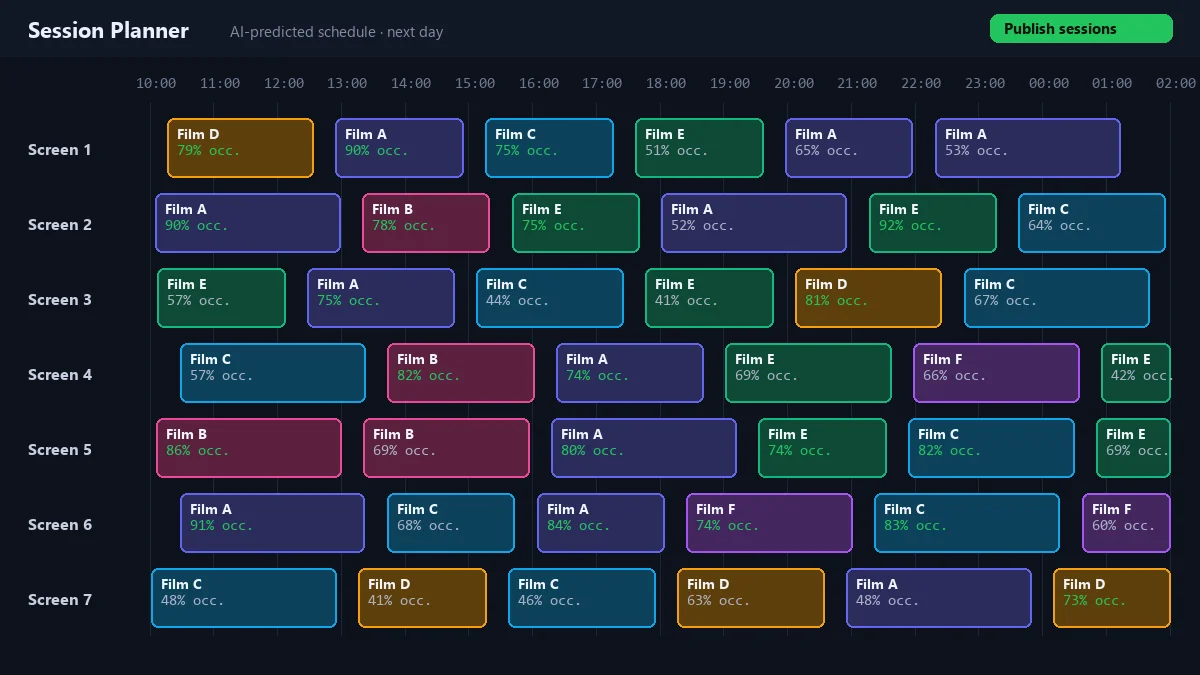
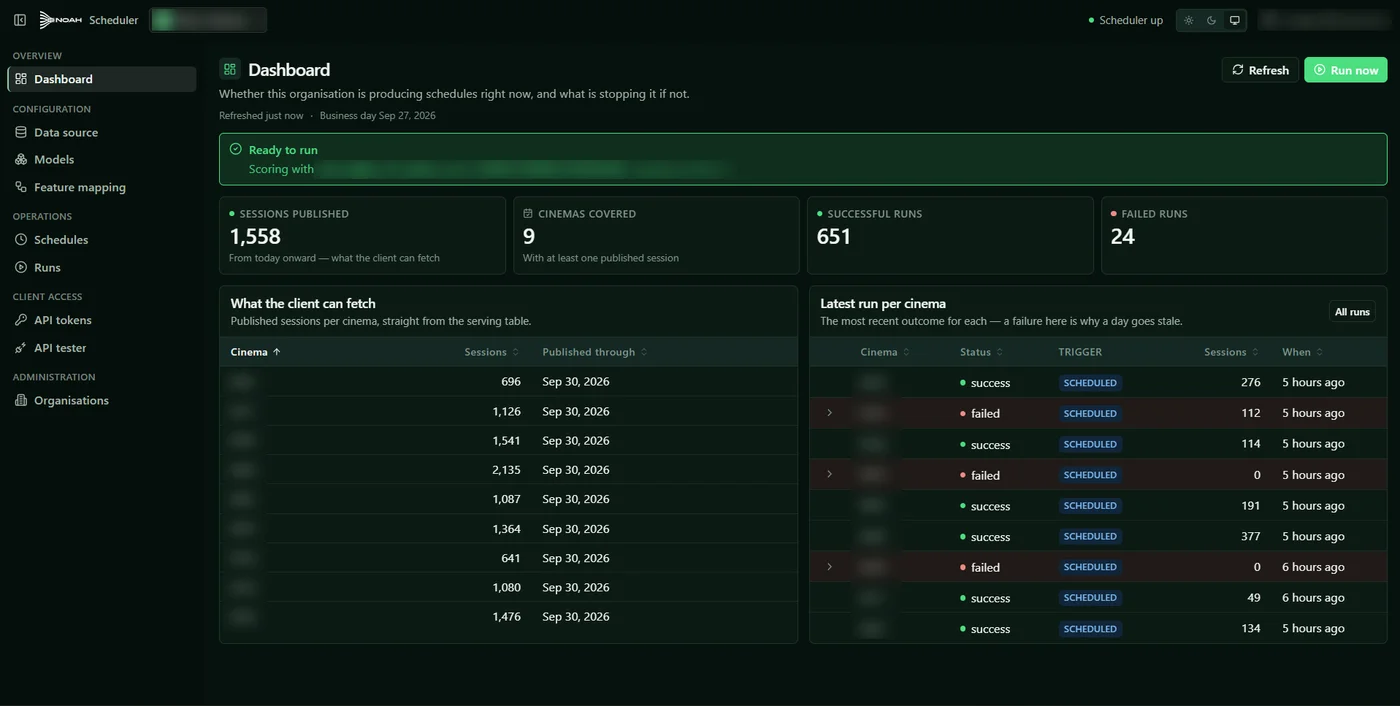
Scheduler card: real dashboard screenshot, confidential fields blurred
Client name/badge, colleague email, model and data-source names and
cinema codes blurred. Label now reflects the screenshot.

diff --git a/src/data.ts b/src/data.ts
@@ -98,14 +98,15 @@ export const projects = [
     paper: 'https://ieeexplore.ieee.org/document/11467195',
   },
   {
-    // Client work at EnPointe — private repo, so no code/live link and no client names or figures.
+    // Client work at EnPointe — private repo, so no code/live link. Screenshot has client name, email,
+    // model/data-source names and cinema codes blurred; re-blur if it's ever replaced.
     name: 'AI Movie Scheduler',
     tagline: 'Production ML for cinema scheduling',
     description:
       'Predicts the next day’s show schedule for a cinema chain: LightGBM occupancy and quantile models score candidate sessions, and a worker pipeline (extract → score → schedule → publish) serves them through a multi-tenant API that each cinema pulls from.',
     tags: ['LightGBM', 'Forecasting', 'FastAPI', 'PostgreSQL', 'Python'],
     image: scheduler,
-    badge: '▶ 91% predicted occupancy',
+    badge: '● Scheduler up',
     accent: 'from-indigo-300 via-violet-500 to-fuchsia-700',
   },
   {
